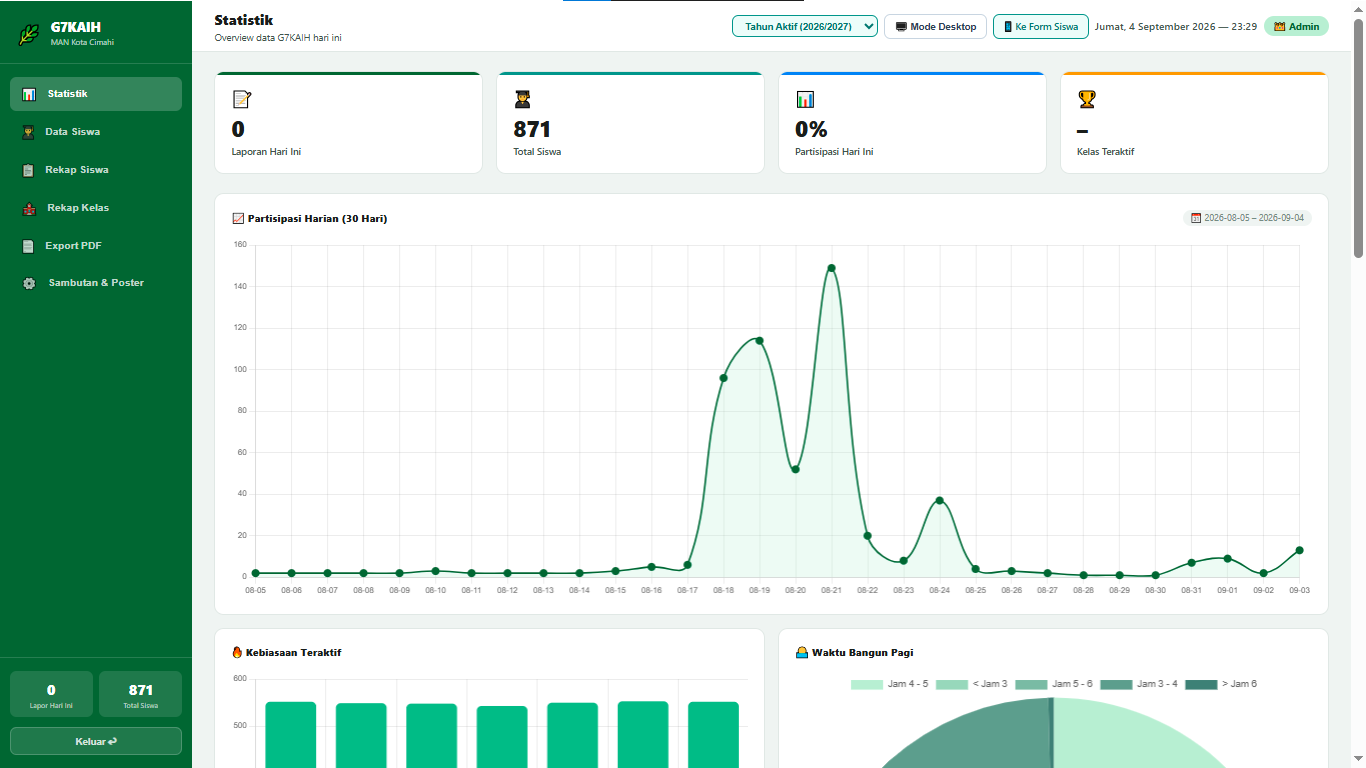
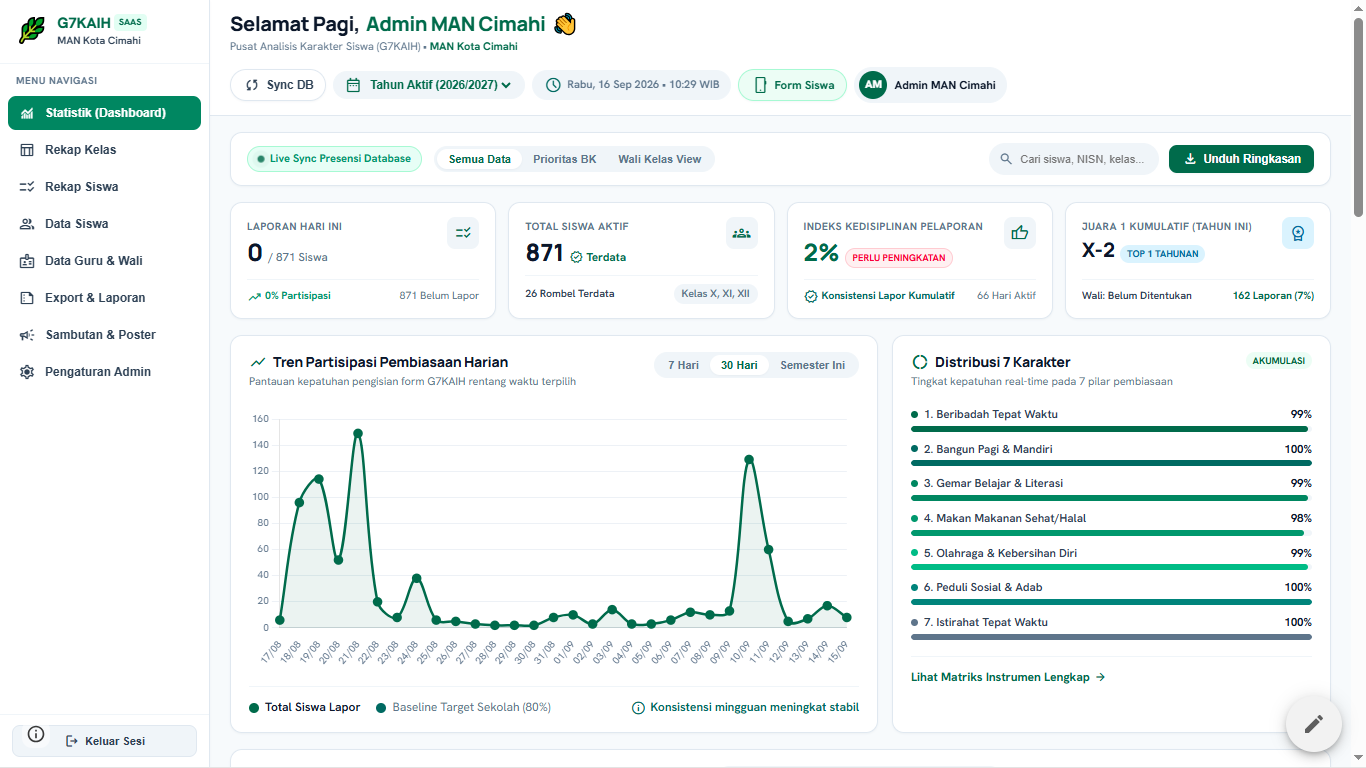
feat(g7kaih): replace dashboard screenshots with latest 21, 24, and 25

diff --git a/src/data/projects.ts b/src/data/projects.ts
@@ -254,11 +254,11 @@ export const projects: Project[] = [
     ],
     screenshots: [
       {
-        title: 'Dashboard Statistik & Tren Partisipasi 30 Hari',
-        description: 'Tampilan desktop pemantauan komprehensif untuk Guru BK dan Kepala Madrasah. Menampilkan 871 siswa terdata, 443 laporan aktif, grafik kurva tren 30 hari, serta pie chart waktu bangun pagi.',
-        tag: 'Desktop Overview',
+        title: 'Dashboard Statistik & Analisis 7 Karakter Siswa',
+        description: 'Tampilan desktop pemantauan komprehensif Admin MAN Cimahi. Menampilkan 871 siswa aktif terdata, kurva tren partisipasi 30 hari, serta tingkat kepatuhan real-time pada 7 pilar pembiasaan karakter (ibadah 99%, bangun pagi 100%, peduli sosial 100%).',
+        tag: 'Dashboard Statistik',
         image: '/images/screenshots/g7kaih/g7kaih-01-desktop-overview-statistik.png',
-        statsHighlight: '871 Siswa & Tren 30 Hari',
+        statsHighlight: '871 Siswa Terdata',
       },
       {
         title: 'Portal Beranda Siswa Ramah Jempol',
@@ -268,18 +268,18 @@ export const projects: Project[] = [
         statsHighlight: 'Akses 1-Tap Ramah Jempol',
       },
       {
-        title: 'Audit & Rekap Jurnal Individu Siswa (K1 - K7)',
-        description: 'Tabel desktop pemantauan mendalam per individu siswa. Guru BK dapat mengecek checklist kepatuhan 7 kebiasaan (K1 s/d K7), total laporan yang masuk, serta status konsistensi streak harian.',
-        tag: 'Desktop Rekap Siswa',
-        image: '/images/screenshots/g7kaih/g7kaih-03-desktop-rekap-siswa.png',
-        statsHighlight: 'Audit Kepatuhan K1-K7',
+        title: 'Rekap Partisipasi & Peringkat Rombel Kelas',
+        description: 'Dashboard pemantauan kepatuhan per rombel untuk Wali Kelas & Guru BK. Dilengkapi filter ranking harian/semesteran lintas Kelas X, XI, dan XII, serta status capaian juara kelas (seperti Kelas X-2 Juara 1 dengan 85% kepatuhan).',
+        tag: 'Desktop Rekap Kelas',
+        image: '/images/screenshots/g7kaih/g7kaih-03-desktop-partisipasi-kelas.png',
+        statsHighlight: 'Peringkat & Persentase Kelas',
       },
       {
-        title: 'Komparasi Antar Kelas & Peringkat Keaktifan',
-        description: 'Rekapitulasi persentase pengisian per kelas untuk Wali Kelas dan Pimpinan. Memperlihatkan capaian kelas teladan (seperti Kelas X-2 dengan 114 laporan dan 100% partisipasi siswa aktif).',
-        tag: 'Desktop Rekap Kelas',
-        image: '/images/screenshots/g7kaih/g7kaih-04-desktop-rekap-kelas.png',
-        statsHighlight: '100% Partisipasi Kelas X-2',
+        title: 'Pengaturan & Manajemen Hak Akses Akun Admin',
+        description: 'Panel kontrol otorisasi akun pengelola sistem di MAN Kota Cimahi. Memungkinkan penambahan admin baru, manajemen peran (Koordinator G7KAIH & Administrator Cadangan), pengaturan status aktif, serta keamanan kredensial terpusat.',
+        tag: 'Desktop Pengaturan Admin',
+        image: '/images/screenshots/g7kaih/g7kaih-04-desktop-pengaturan-admin.png',
+        statsHighlight: 'Manajemen Akses Admin',
       },
       {
         title: 'Form Input Jurnal Harian & Grafik Progres 7 Hari',
